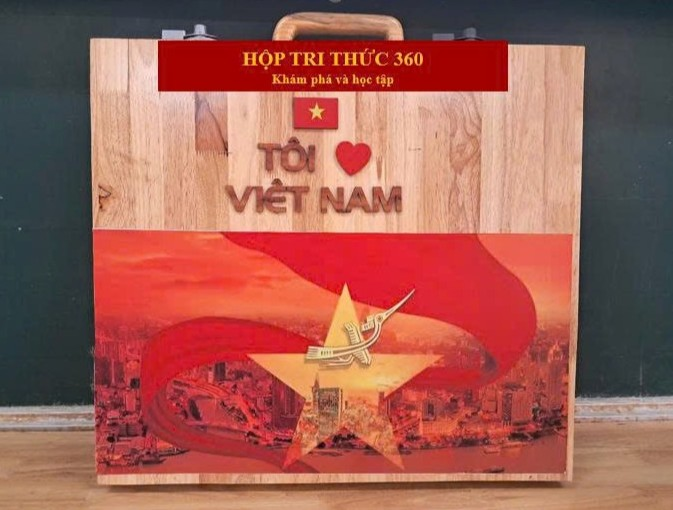
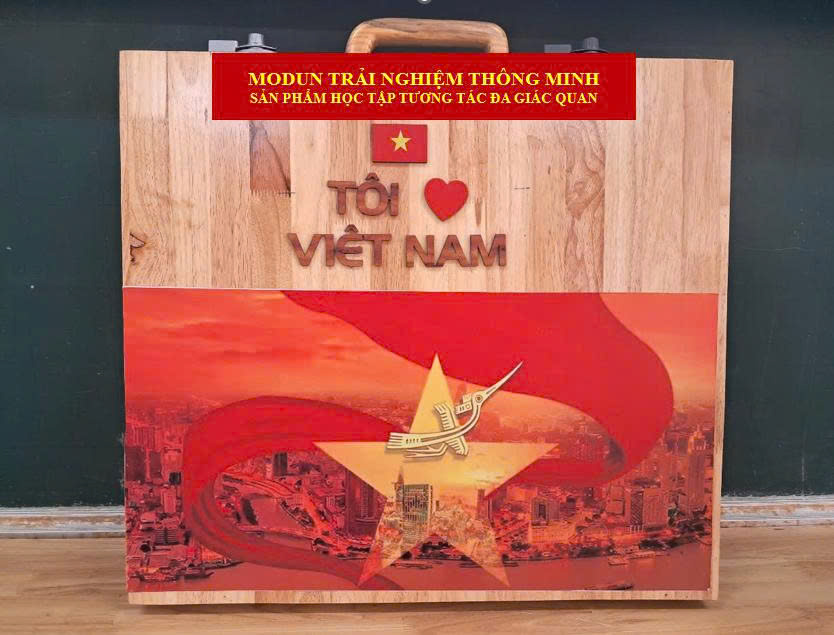
doi ten

diff --git a/src/pages/TrangGioiThieu/index.jsx b/src/pages/TrangGioiThieu/index.jsx
@@ -27,7 +27,7 @@ const HomePage = () => {
             <p>Kính chào quý thầy cô, các bạn và mọi người!</p>
             <div className="tieu-de">
                 <div>
-                    <strong style={{ color: "red" }}>“Hộp tri thức 360”</strong>
+                    <strong style={{ color: "red" }}>“MODULE TRẢI NGHIỆM THÔNG MINH”</strong>
                 </div>
                 <div>
                     <strong style={{ color: "#0070c0" }}>Hành trình khám phá Tổ quốc trong kỷ nguyên vươn mình</strong>
@@ -36,13 +36,13 @@ const HomePage = () => {
 
             <div className="gioi-thieu g-container">
                 <p>Trong bối cảnh đất nước đang đổi mới mạnh mẽ, sáp nhập các tỉnh, tinh gọn bộ máy hành chính, việc cập nhật kiến thức về địa lý, văn hóa và xã hội trở thành nhu cầu thiết yếu – nhất là với học sinh. Thế nhưng, sách giáo khoa, bản đồ treo tường lại thường chậm thay đổi so với thực tế.</p>
-                <p>Thấu hiểu điều đó, nhóm học sinh Trường THCS Hàm Nghi (Đắk Lắk) đã sáng tạo ra <b>“Hộp tri thức 360 – Hành trình khám phá Tổ quốc trong kỷ nguyên vươn mình của dân tộc”</b>  – một sản phẩm học tập hiện đại, tích hợp công nghệ, giúp việc học Địa lý – Lịch sử – Giáo dục địa phương trở nên trực quan – sinh động – luôn được cập nhật.</p>
+                <p>Thấu hiểu điều đó, nhóm học sinh Trường THCS Hàm Nghi (Đắk Lắk) đã sáng tạo ra <b>“MODULE TRẢI NGHIỆM THÔNG MINH – Hành trình khám phá Tổ quốc trong kỷ nguyên vươn mình của dân tộc”</b>  – một sản phẩm học tập hiện đại, tích hợp công nghệ, giúp việc học Địa lý – Lịch sử – Giáo dục địa phương trở nên trực quan – sinh động – luôn được cập nhật.</p>
             </div>
 
             <div className="noi-dung g-container">
                 <div className="title">🎯Mục đích</div>
-                <p><i style={{ color: "red" }}>“Hộp tri thức 360”</i> được sáng tạo để giải quyết bài toán học kiến thức địa lý, hành chính, dân tộc luôn bám sát thực tế, nhất là khi đất nước thực hiện sáp nhập các tỉnh, xã, thay đổi bản đồ hành chính.</p>
-                <p><i style={{ color: "red" }}>“Hộp tri thức 360”</i> còn giúp học sinh cập nhật kịp thời thông tin mới mà không cần chờ đợi sách giáo khoa mới. Chỉ cần cập nhật website, dán lại mã QR mới là tất cả học sinh, giáo viên, phụ huynh đều có thể tiếp cận thông tin nhanh chóng và chính xác nhất. Đây là một giải pháp học tập linh hoạt, thông minh, hiện đại và tiết kiệm, phù hợp với xu hướng chuyển đổi số trong giáo dục hiện nay.Từ đó, ghi nhớ tự nhiên, tiếp thu linh hoạt, hình thành kỹ năng số và nuôi dưỡng tình yêu quê hương, bản sắc dân tộc.</p>
+                <p><i style={{ color: "red" }}>“MODULE TRẢI NGHIỆM THÔNG MINH”</i> được sáng tạo để giải quyết bài toán học kiến thức địa lý, hành chính, dân tộc luôn bám sát thực tế, nhất là khi đất nước thực hiện sáp nhập các tỉnh, xã, thay đổi bản đồ hành chính.</p>
+                <p><i style={{ color: "red" }}>“MODULE TRẢI NGHIỆM THÔNG MINH”</i> còn giúp học sinh cập nhật kịp thời thông tin mới mà không cần chờ đợi sách giáo khoa mới. Chỉ cần cập nhật website, dán lại mã QR mới là tất cả học sinh, giáo viên, phụ huynh đều có thể tiếp cận thông tin nhanh chóng và chính xác nhất. Đây là một giải pháp học tập linh hoạt, thông minh, hiện đại và tiết kiệm, phù hợp với xu hướng chuyển đổi số trong giáo dục hiện nay.Từ đó, ghi nhớ tự nhiên, tiếp thu linh hoạt, hình thành kỹ năng số và nuôi dưỡng tình yêu quê hương, bản sắc dân tộc.</p>
             </div>
 
             <div className="cau-tao g-container">
@@ -128,8 +128,8 @@ const HomePage = () => {
             </div>
             <div className="ket-noi g-container">
                 <div className="title">🌍 Kết nối truyền thống & công nghệ – Gieo tri thức – Lan tỏa yêu thương</div>
-                <p><i style={{ color: "red" }}>“Hộp tri thức 360”</i> không chỉ là đồ dùng học tập mà còn là người bạn đồng hành, biến mỗi tiết học thành một chuyến phiêu lưu khám phá đất nước, khơi dậy niềm tự hào dân tộc và trang bị kỹ năng công dân số cho thế hệ mới.</p>
-                <p>Nhóm chúng em hy vọng chiếc <i style={{ color: "red" }}>“Hộp tri thức 360”</i> sẽ góp phần lan tỏa tinh thần yêu nước, niềm tự hào dân tộc và cổ vũ cho mục tiêu xây dựng một Việt Nam vươn mình mạnh mẽ trong kỷ nguyên mới.</p>
+                <p><i style={{ color: "red" }}>“MODULE TRẢI NGHIỆM THÔNG MINH”</i> không chỉ là đồ dùng học tập mà còn là người bạn đồng hành, biến mỗi tiết học thành một chuyến phiêu lưu khám phá đất nước, khơi dậy niềm tự hào dân tộc và trang bị kỹ năng công dân số cho thế hệ mới.</p>
+                <p>Nhóm chúng em hy vọng chiếc <i style={{ color: "red" }}>“MODULE TRẢI NGHIỆM THÔNG MINH”</i> sẽ góp phần lan tỏa tinh thần yêu nước, niềm tự hào dân tộc và cổ vũ cho mục tiêu xây dựng một Việt Nam vươn mình mạnh mẽ trong kỷ nguyên mới.</p>
                 <p>Chúng em rất mong nhận được sự góp ý, ủng hộ của quý thầy cô và mọi người để sản phẩm ngày càng hoàn thiện, phục vụ tốt hơn cho việc học tập và tìm hiểu kiến thức.</p>
             </div>
             <div className="cam-on">- Xin chân thành cảm ơn! -</div>

diff --git a/src/pages/TrangChu/index.jsx b/src/pages/TrangChu/index.jsx
@@ -14,7 +14,7 @@ const TrangChu = () => {
     <section className="hero-wrapper">
       <div className="hero-container">
         <div className="hero-left">
-          <div className="hero-tag">Hộp tri thức 360 </div>
+          <div className="hero-tag">MODULE TRẢI NGHIỆM THÔNG MINH </div>
           <div className="hero-des">Hành trình khám phá Tổ quốc trong kỷ nguyên vươn mình của dân tộc</div>
           <div className="hero-cta">
             <NavLink className="cta-btn" to={"/gioi-thieu"}>

diff --git a/src/layout/UserLayout/Navbar/style.scss b/src/layout/UserLayout/Navbar/style.scss
@@ -64,7 +64,7 @@
                      height: 4px;
                      bottom: 0px;
                      left: 10px;
-                     background: rgb(35, 118, 226);
+                     background: #0c5a5a;
                      transition: transform 0.35s ease-out;
                      -webkit-transform-origin: bottom right;
                      transform-origin: bottom right;

diff --git a/src/components/Logo/style.scss b/src/components/Logo/style.scss
@@ -6,7 +6,16 @@
    // color: var(--white);
    color: #215c5c;
    font-size: 1.75rem;
+   display: flex;
+   justify-content: center;
    * {
-      text-shadow: 1px 1px 0 #999, 2px 2px 0 #f3f3f3, 3px 3px 0 #d6d4d4;
+      text-shadow:
+         1px 1px 0 #999,
+         2px 2px 0 #f3f3f3,
+         3px 3px 0 #d6d4d4;
+   }
+
+   img {
+      width: 60px;
    }
 }

diff --git a/src/pages/TrangChu/Footer/index.jsx b/src/pages/TrangChu/Footer/index.jsx
@@ -5,7 +5,7 @@ const Footer = () => {
   return (
     <footer className="footer">
       <div className="footer__bottom">
-        © {new Date().getFullYear()} Hộp tri thức 360. Mọi quyền được bảo lưu.
+        © {new Date().getFullYear()} MODULE TRẢI NGHIỆM THÔNG MINH
       </div>
     </footer>
   );

diff --git a/index.html b/index.html
@@ -5,7 +5,7 @@
   <meta charset="UTF-8" />
   <link rel="icon" type="image/svg+xml" href="/vite.svg" />
   <meta name="viewport" content="width=device-width, initial-scale=1.0" />
-  <title>Hộp tri thức 360</title>
+  <title>MODULE TRẢI NGHIỆM THÔNG MINH</title>
 </head>
 
 <body>

diff --git a/src/components/Logo/index.jsx b/src/components/Logo/index.jsx
@@ -1,8 +1,9 @@
 import "./style.scss"
-
+import LogoIMG from "./logo.png";
 const Logo = () => {
     return <div className="logo">
-        <span>Hộp tri thức</span> <strong>360</strong>
+        {/* <strong>TNTM</strong> */}
+        <img src={LogoIMG} alt="" />
     </div>
 }
 
